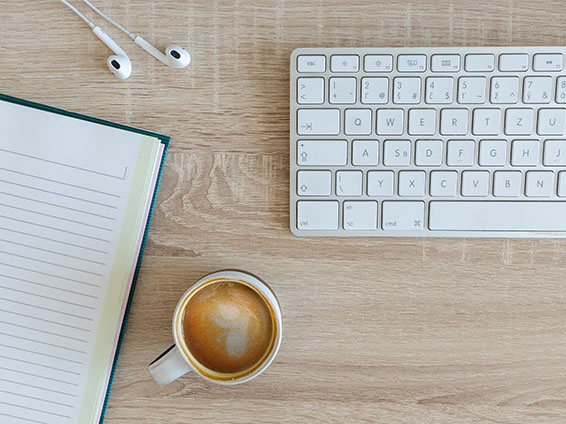
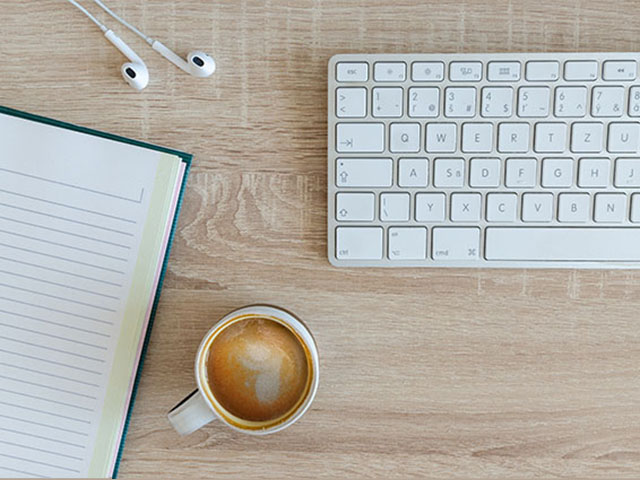
added content and styles to portfolio page, resized project images

diff --git a/portfolio.html b/portfolio.html
@@ -6,7 +6,7 @@
     <meta http-equiv="X-UA-Compatible" content="ie=edge">
     <link rel="stylesheet" href="assets/css/reset.css">
     <link rel="stylesheet" href="assets/css/style.css">
-    <title>About Me</title>
+    <title>Portfolio</title>
 </head>
 <body>
 
@@ -27,11 +27,50 @@
     <div id="body">
         <div class="contentspan">
             <section>
-                <h2>About Me</h2>
+                <h2>Portfolio</h2>
                 <hr class="hrthick">
-                <img id="biophoto" src="assets/images/profile-pic.jpg" alt="profile photo">
-                <p>Bacon ipsum dolor amet shoulder ground round landjaeger pancetta chicken sausage filet mignon fatback pastrami turducken. Pork loin pork belly salami ham hock. Bresaola tenderloin spare ribs rump chicken, flank porchetta pastrami biltong doner landjaeger hamburger sausage short ribs kevin. Ham hock bacon short ribs pork loin strip steak.</p>
-                <p>Capicola prosciutto boudin andouille short loin kielbasa. Burgdoggen leberkas bresaola spare ribs biltong pastrami boudin salami jerky short loin hamburger. Turducken ground round ball tip landjaeger kielbasa flank shoulder turkey meatloaf brisket, tri-tip ham hock cupim. Porchetta short ribs shank spare ribs kielbasa pork chop beef ribs pig.</p>
+
+                <div class="photobox">
+                    <a href="#">
+                        <img class="photo" src="assets/images/carlos-muza-84523.jpg" alt="project1">
+                        <h4 class="projlabel">Hangman</h4>
+                    </a>
+                </div>
+
+                <div class="photobox">
+                    <a href="#">
+                        <img class="photo" src="assets/images/corinne-kutz-211251.jpg" alt="project2">
+                        <h4 class="projlabel">Hangman</h4>
+                    </a>
+                </div>
+
+                <div class="photobox">
+                    <a href="#">
+                        <img class="photo" src="assets/images/lukas-blazek-320606.jpg" alt="project3">
+                        <h4 class="projlabel">Hangman</h4>
+                    </a>
+                </div>
+
+                <div class="photobox">
+                    <a href="#">
+                        <img class="photo" src="assets/images/patrick-perkins-350622.jpg" alt="project4">
+                        <h4 class="projlabel">Hangman</h4>
+                    </a>
+                </div>
+
+                <div class="photobox">
+                    <a href="#">
+                        <img class="photo" src="assets/images/rawpixel-com-247360.jpg" alt="project5">
+                        <h4 class="projlabel">Hangman</h4>
+                    </a>  
+                </div>
+
+                <div class="photobox">
+                    <a href="#">
+                        <img class="photo" src="assets/images/stefan-stefancik-257625.jpg" alt="project6"><h4 class="projlabel">Hangman</h4>
+                    </a> 
+                </div>
+                
             </section>
         
             <aside>

diff --git a/assets/css/style.css b/assets/css/style.css
@@ -95,7 +95,7 @@ a {
 section {
     background-color: #fff;
     width: 55%;
-    min-width: 500px;
+    min-width: 300px;
     padding: 30px;
     margin-top: 30px;
     margin-bottom: 30px;
@@ -203,4 +203,36 @@ input[type=text]:focus, input[type=email]:focus, textarea:focus {
 
 input[type=submit]:hover {
     background-color: #228f89;
+}
+
+/* Portfolio Page */
+
+
+
+.photobox {
+    width: 300px;
+    float: left;
+    margin-right: 30px;
+    margin-bottom: 30px;
+    margin-top: 10px;
+    position: relative;
+}
+
+.photo {
+    width: 300px;
+}
+
+.projlabel {
+    position: absolute;
+    background-color: #4aaaa5;
+    color: #fff;
+    width: 100%;
+    padding: 10px;
+    box-sizing: border-box;
+    font-family: 'Georgia', Times, 'Times New Roman', serif;
+    font-weight: 400;
+    font-size: 20px;
+    text-align: center;
+    position: absolute;
+    bottom: 0px;
 }
